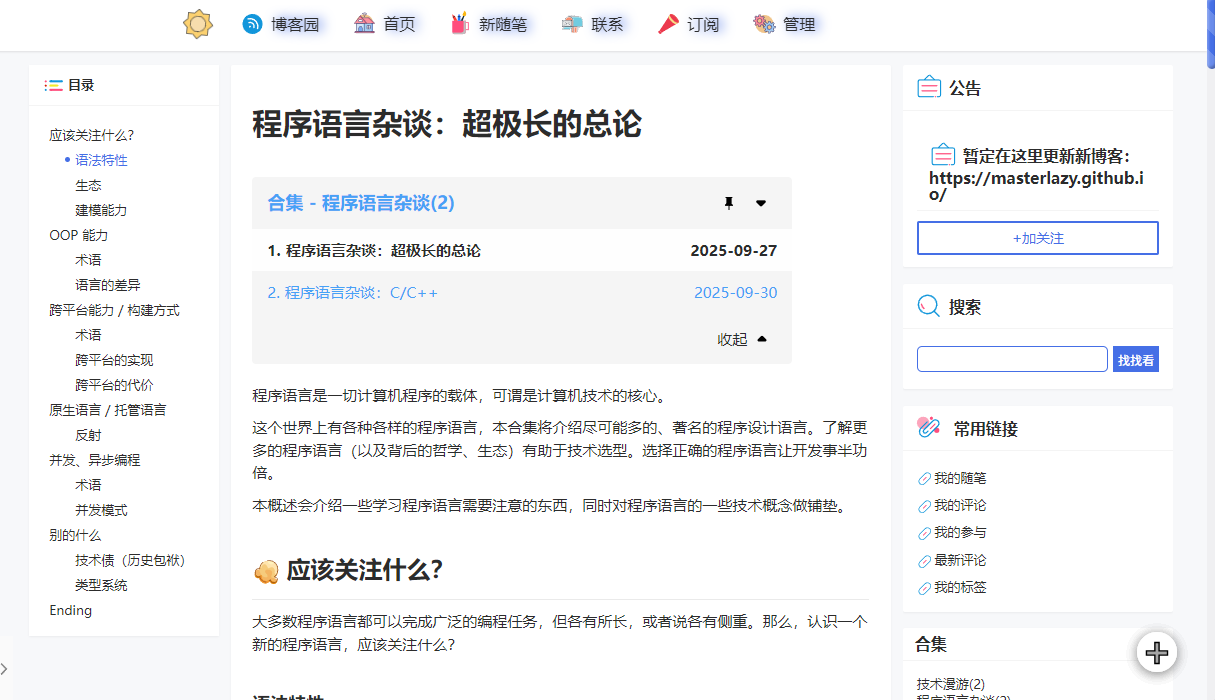
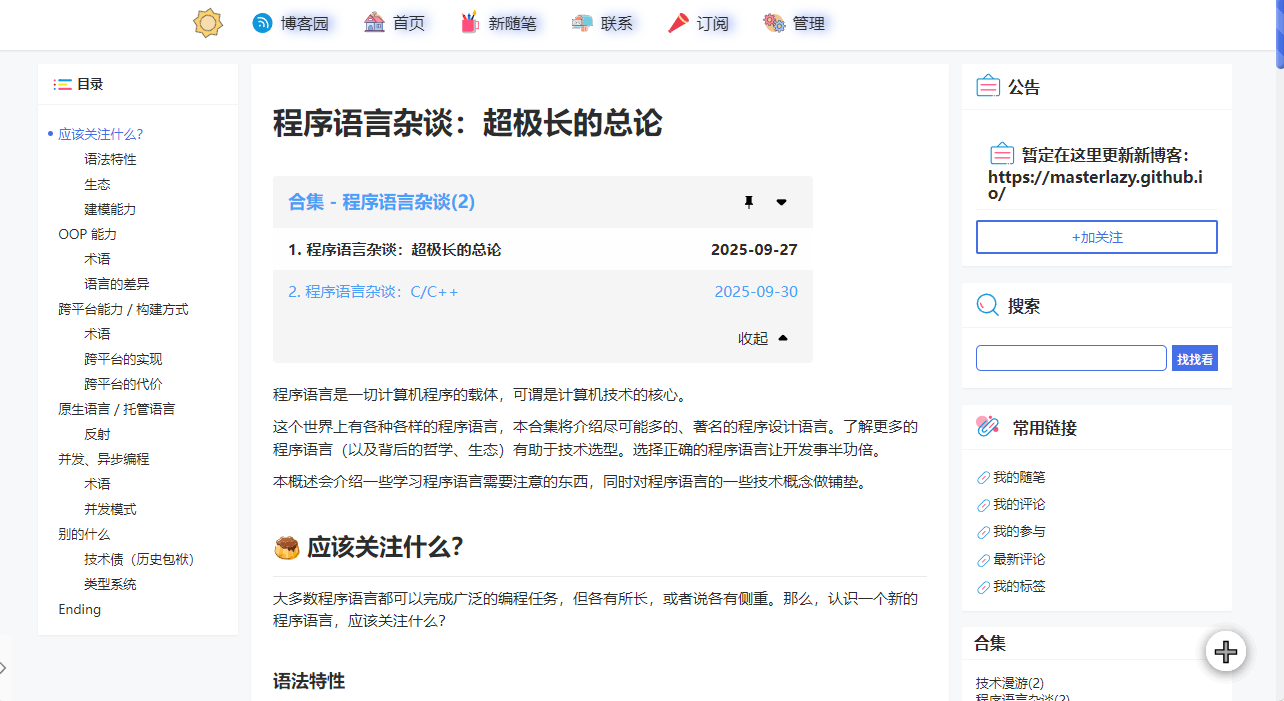
update

diff --git a/src/css/custom.css b/src/css/custom.css
@@ -124,6 +124,24 @@ h6 {
     color: var(--mlazy-header-color);
 }
 
+/* 美丽的背景（好有AI味） */
+body::before {
+    content: '';
+    position: fixed;
+    top: 0;
+    left: 0;
+    right: 0;
+    bottom: 0;
+    width: 100vw;
+    height: 100vh;
+    z-index: -1;
+
+    background:
+        radial-gradient(circle at 80% 90%, rgba(249, 212, 35, 0.05) 0%, transparent 20%),
+        radial-gradient(circle at 20% 30%, color-mix(in srgb, var(--ifm-color-primary), transparent 95%) 0%, transparent 30%),
+        var(--ifm-background-color);
+}
+
 /* 页脚 */
 
 .footer {
@@ -221,11 +239,22 @@ h1::first-letter {
 }
 
 .markdown>h2 {
-    border-bottom: var(--ifm-color-emphasis-400) solid 1px;
+    border-bottom: var(--ifm-color-emphasis-300) solid 2px;
 }
+
+hr {
+    background-color: var(--ifm-color-emphasis-300);
+    height: 2px;
+}
+
 
 .markdown>blockquote {
     border-left-width: 4px;
+}
+
+/* 美丽的选中效果 */
+::selection {
+    background-color: var(--ifm-color-primary-paler);
 }
 
 /*

diff --git a/src/theme/BlogPostItem/Footer/ReadMoreLink/index.tsx b/src/theme/BlogPostItem/Footer/ReadMoreLink/index.tsx
@@ -1,0 +1,31 @@
+import React, { type ReactNode } from 'react';
+import Translate, { translate } from '@docusaurus/Translate';
+import Link from '@docusaurus/Link';
+import type { Props } from '@theme/BlogPostItem/Footer/ReadMoreLink';
+
+function ReadMoreLabel() {
+  return (
+    <b>阅读全文 →</b>
+  );
+}
+
+export default function BlogPostItemFooterReadMoreLink(
+  props: Props,
+): ReactNode {
+  const { blogPostTitle, ...linkProps } = props;
+  return (
+    <Link
+      aria-label={translate(
+        {
+          message: 'Read more about {title}',
+          id: 'theme.blog.post.readMoreLabel',
+          description:
+            'The ARIA label for the link to full blog posts from excerpts',
+        },
+        { title: blogPostTitle },
+      )}
+      {...linkProps}>
+      <ReadMoreLabel />
+    </Link>
+  );
+}

diff --git a/blog/2025-09-30-cppgui选型记.md b/blog/2025-09-30-cppgui选型记.md
@@ -26,7 +26,7 @@ tags: [c-cpp, stack, ramble]
 
 文档：[EasyX 文档 - 基本说明](https://docs.easyx.cn/zh-cn/intro)
 
-![](https://easyx.cn/f/a/0/0/6/setup-vc2010-4.1.png)
+<Img>![](https://easyx.cn/f/a/0/0/6/setup-vc2010-4.1.png)</Img>
 
 
 
@@ -48,9 +48,13 @@ int main() {
 
 我曾用 EasyX 写过蛮多程序的，如今仅仅是注视着这些程序的名字，就令我十分怀念：
 
-```
-贝塞尔曲线、单摆、单摆2、物理-粒子撞圆柱阵、五子棋、樱花树
-```
+> 贝塞尔曲线、单摆、单摆2、物理-粒子撞圆柱阵、五子棋、樱花树
+
+<Img>
+![](assets/2025-09-30-01.jpg)
+
+单摆.exe
+</Img>
 
 当时我甚至用 EasyX 写了一个小小的、简陋的 UT 同人小游戏，可惜现在找不到了。
 
@@ -133,9 +137,13 @@ public:
 
 实际上，当时我基本上是按照 EasyX 的方式来封装这些接口。基于我自己封装的接口，我也写了几个程序：
 
-```
-三体问题渐进解、手写数字识别（搭配 TensorFlow）、探索复平面
-```
+>  三体问题渐进解、手写数字识别（搭配 TensorFlow）、探索复平面
+
+<Img>
+![](assets/2025-09-30-02.webp)
+
+探索复平面（导出图片）
+</Img>
 
 我记得我还尝试过用 Direct2D 重写我的 “五子棋” 程序，不过好像没有做完。
 

diff --git a/src/pages/site-intro.md b/src/pages/site-intro.md
@@ -1,8 +1,10 @@
 # 你好！欢迎来到 mNotebook。
 
-欢迎来到我的小站。这里有我的[笔记](docs/intro)和[博客](blog)。二者的标签列表是独立的：[笔记-所有标签](docs/tags)、[博客-所有标签](blog/tags)。
+欢迎来到我的小站。
 
-笔记按照主题分类，是成体系的知识整合；而博客更新可能更快，比较碎片化。通过**顶栏**，你可以方便地导航到不同的笔记本。欢迎[通过 RSS 订阅我的博客](https://masterlazy.github.io/blog/rss.xml)！
+这是一个奇怪的、所有大标题的首字都被标蓝且放大 20% 的网站，在这里能找到我的[笔记](docs/intro)和[博客](blog)。欢迎[通过 RSS 订阅我的博客](https://masterlazy.github.io/blog/rss.xml)！
+
+笔记和博客是两套相对独立的系统。笔记按照主题分类，是成体系的知识整合；而博客更新可能更快，比较碎片化。通过**顶栏**，你可以方便地导航到不同的笔记本。它们的标签列表分别在：[笔记-所有标签](docs/tags)、[博客-所有标签](blog/tags)。
 
 ## 笔记本列表
 

diff --git a/blog/2026-08-25-2026年的一点博客心得.md b/blog/2026-08-25-2026年的一点博客心得.md
@@ -59,8 +59,6 @@ tags: [ ramble ]
 
 但还是有点缺陷的。比如我现在编辑笔记，就要先启动 `yarn start`，然后创建 `.md`，在 Typora 中打开，再挂个浏览器，实时看效果。这么看来，要敲笔记还是比较繁琐。
 
-> 最近笔者弄了一个一键构建+推送脚本，体验稍微丝滑一点了。
-
 ## 遇到的优秀博客
 
 网上冲浪，看到的有些博客确实很惊艳，浅浅收录到下面，可供日后借鉴。
@@ -78,7 +76,7 @@ tags: [ ramble ]
 
 从今天开始，我也在这个小站上写博客了。相比于那些放在 `docs/` 下的笔记，博客可能没有那么精致，也不用那么多花里胡哨的组件了。
 
-我还搬了一些之前写的，现在看来算作博客的文章到这里。
+我还搬了一些之前写的，现在看来算作博客的文章到这里，让这里看起来稍微热闹一些。
 
 <br/>
 
